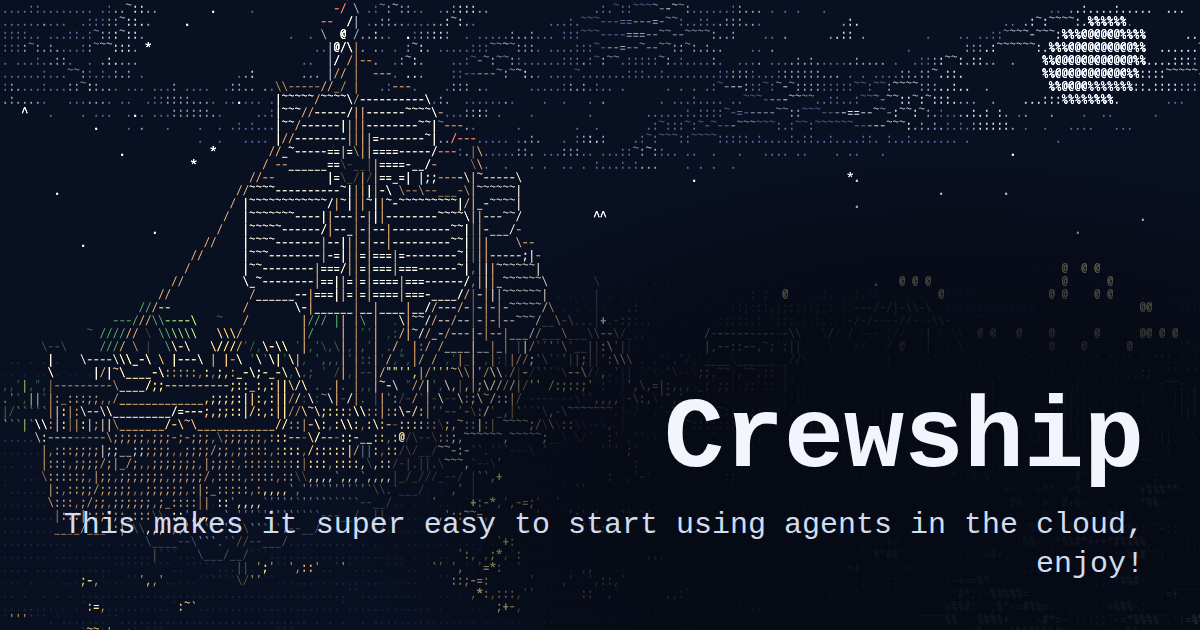
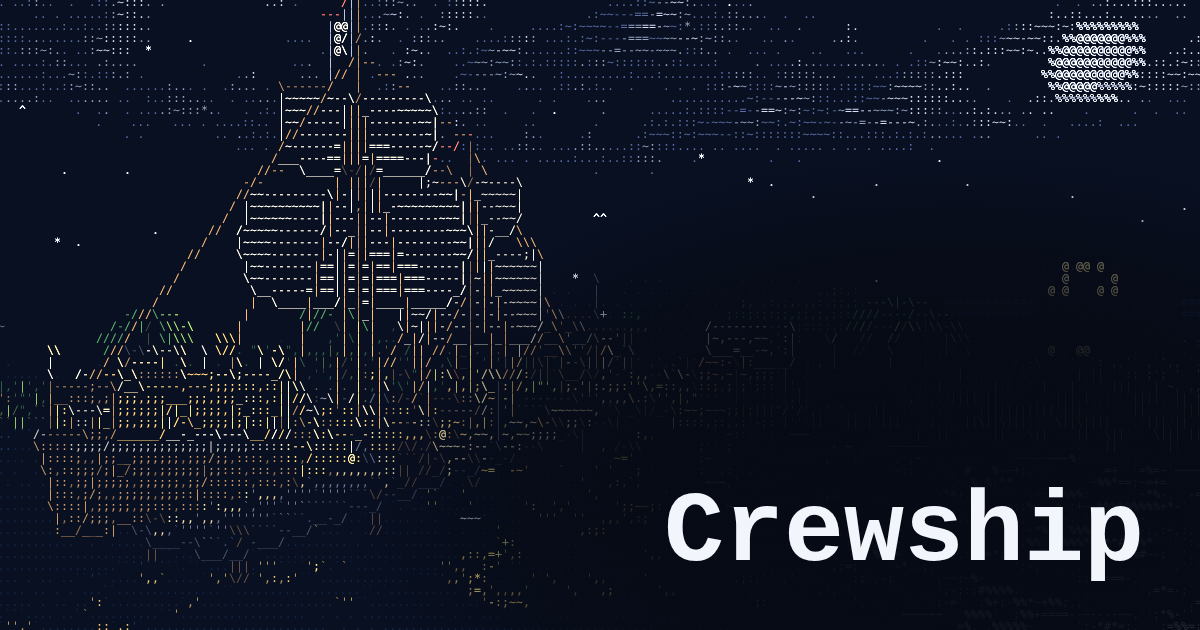
fix(site): remove the subtitle from the link preview image (#416)

diff --git a/site/README.md b/site/README.md
@@ -173,7 +173,7 @@ Then open <http://localhost:8000>.
 
 `index.html` sets the Open Graph and Twitter card tags, with absolute https://crewship.si URLs.
 The preview image `public/og.png` (1200x630) is committed, so the build and the deploy need no browser.
-`og-image.mjs` draws it with the real renderer from a fixed camera, without the sign or the mini map, and sets the title and the tagline over the scene.
+`og-image.mjs` draws it with the real renderer from a fixed camera, without the sign or the mini map, and sets the title over the scene.
 It also draws `public/apple-touch-icon.png` (180x180) from `public/favicon.svg`.
 After a scene, preview layout, metadata tagline, or favicon change, regenerate both PNGs in the Playwright container and commit them:
 

diff --git a/changelog.d/416.fixed.md b/changelog.d/416.fixed.md
@@ -1,0 +1,1 @@
+The link preview image (`site/public/og.png`) and the repository social preview show only "Crewship", without the subtitle (#416).
